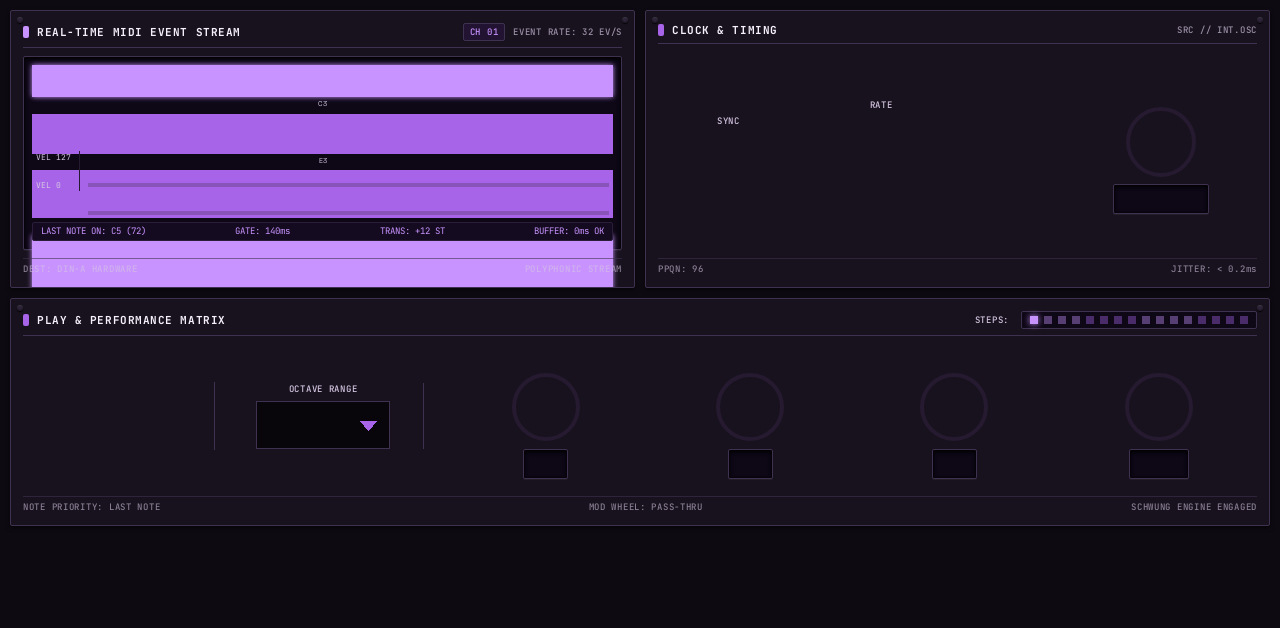
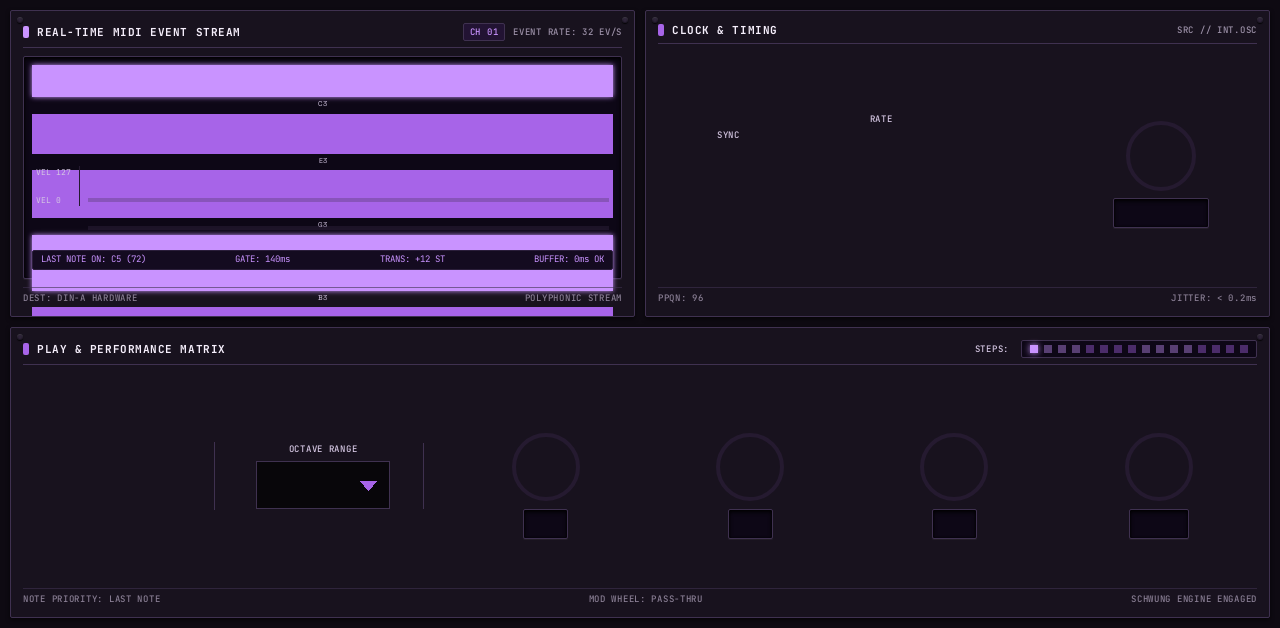
30 screens fill the plugin area (no empty bands above and below)
Rebuilt with the converter's `fill`: 303 (Open303), Aphex, Denis, Elements, Grids, GrooveBank, Hank,
Helm, Hera, Hush One, LibPO32, Marbles (SETUP only), MazeLite, MIDI Player, MonkSynth, Moog
(RaffoSynth: its frame centred), Mr Drums, Mr Hyde, Noisemaker, OB-Xd, PixelWalkers, Plaits, Rampage
(Dual Slope), Rings, Rings FX, SuperArp, Tablor, Verglas, Warps, Wurl. Same controls, parameters and
Q-Link order; only positions moved. Moog's and Noisemaker's hand edits (FILTER switch, BANK, the
shorter scope, design QA moves) carried over. Helm's switch captions now show the parameters' names.

Builds PASSED (offline test), check_skin OK for all 30, screenshots refreshed from the engine's
state. The .so files are the committed ones (only the screens changed). Not on a device yet.

diff --git a/README.md b/README.md
@@ -75,6 +75,9 @@ Use one or the other for this plugin: both register the same plugin (same uid), 
 - `mpc/` = the MIDI FX adapter (`dev-tools/midifx/schwung_midi_fx.c`), Schwung's host headers and `wrapper/engine.h`. The adapter opens an ALSA MIDI port named after the plugin, sends the module's notes there, and turns MPC's transport (tempo, position, play/stop) into the 24-PPQN MIDI clock and Start/Stop the module expects.
 - `mpc/host/plugin_api_v1.h`: its `offsetof(reserved) == 120` assert is a 64-bit (Move) layout check, so it is skipped on the MPC's 32-bit ARM (the module and adapter share the one header).
 - New touchscreen page from its Google Stitch design (`design/`): the design's artwork as the background, its own knob art, live names and values, and controls the design left out added in its style (see RESKINNING.md).
+- **Full-height screen (2026-10-18)**: the panels fill MPC's 1280 × 628 plugin area. The Stitch conversion used to
+  centre the design at the height it had under its own header and footer (MPC draws its own), which left an empty
+  band above and below.
 
 ## Files
 
